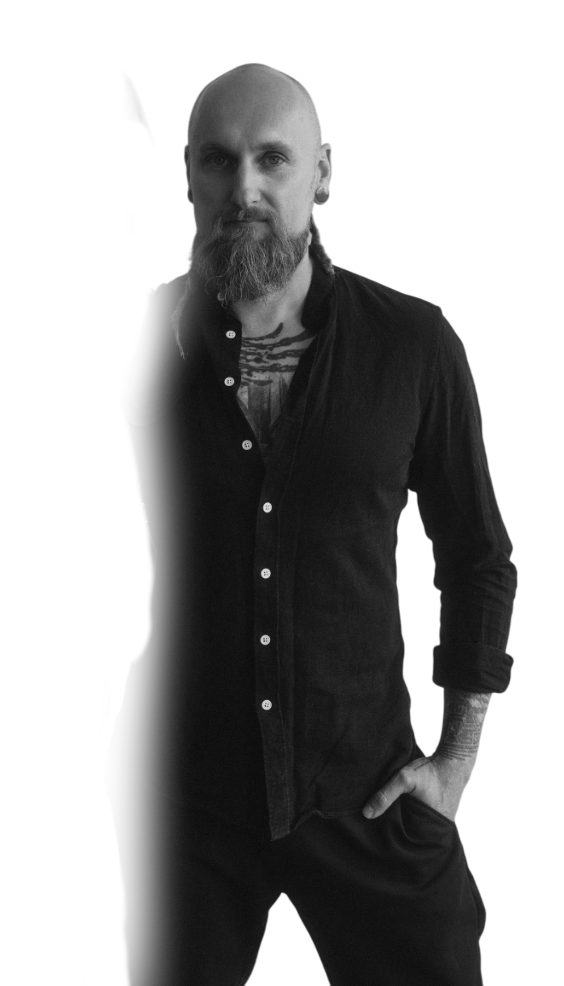
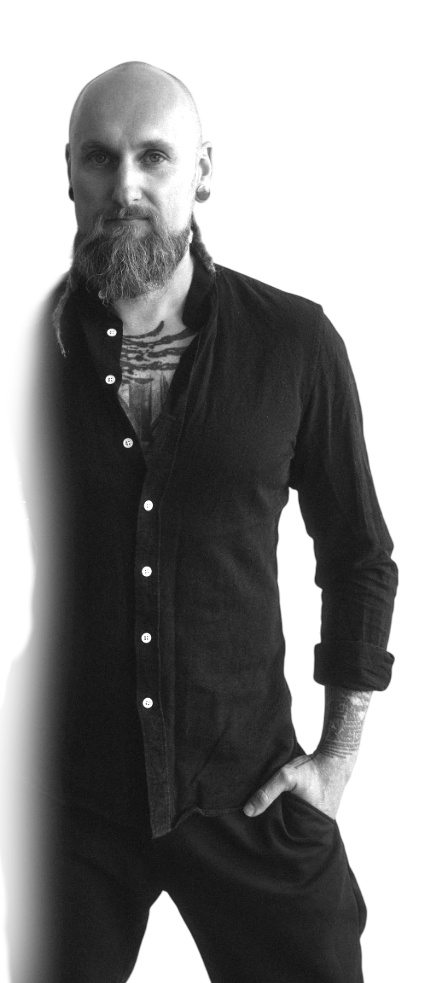
About me O MNE section improved homepage

diff --git a/src/styles/global.css b/src/styles/global.css
@@ -11,13 +11,15 @@
 	--highlight:#57C785;
 	--secondary: #EDDD53;
 	--black: 15, 18, 25;
-	--gray: 96, 115, 159;	
-	--gray-light: 229, 233, 240;
-	--gray-dark: 34, 41, 57;
+	--gray: #e6e6e6;	
+	--gray-light: #f9fafb;
+	--gray-dark: #c7c6c6;	
 	--gray-gradient: rgba(var(--gray-light), 50%), #fff;
 	--box-shadow:
 		0 2px 6px rgba(var(--gray), 5%), 0 8px 24px rgba(var(--gray), 10%), 0 16px 32px
 		rgba(var(--gray), 15%);
+	--radius-12: box-radius: 12px;
+	--radius-20: box-radius: 20px;
 
 	/* Responsive content grid variables */
 	--grid-margin: clamp(1rem, 1vw, 3rem);
@@ -59,6 +61,15 @@ body {
   min-height: 100vh;
   flex-direction: column;
 }
+
+/* Edge-to-edge section utility: full viewport width with safe padding */
+.full-bleed { 
+	margin-left: calc(50% - 50vw);
+	margin-right: calc(50% - 50vw);
+	padding-left: clamp(1rem, 4vw, 2rem);
+	padding-right: clamp(1rem, 4vw, 2rem);
+}
+
 main {
 	max-width: 100%;
 	margin: 5px;
@@ -79,7 +90,7 @@ main {
 .fancybox {
 	/* Tailwind-inspired styling: rounded-2xl p-8 bg-gray-50 transition-all ring-1 ring-gray-200/50 shadow hover:shadow-lg */
 	border-radius: 1rem; /* rounded-2xl */
-	background-color: #F9FAFB; /* bg-gray-50 */
+	background-color: var(--gray-light); 
 	/* Default padding approximates p-8; utility p-* on element will override */
 	padding: 2rem; /* p-8 */
 	/* Ring (1px outline) using box-shadow technique similar to Tailwind's ring */
